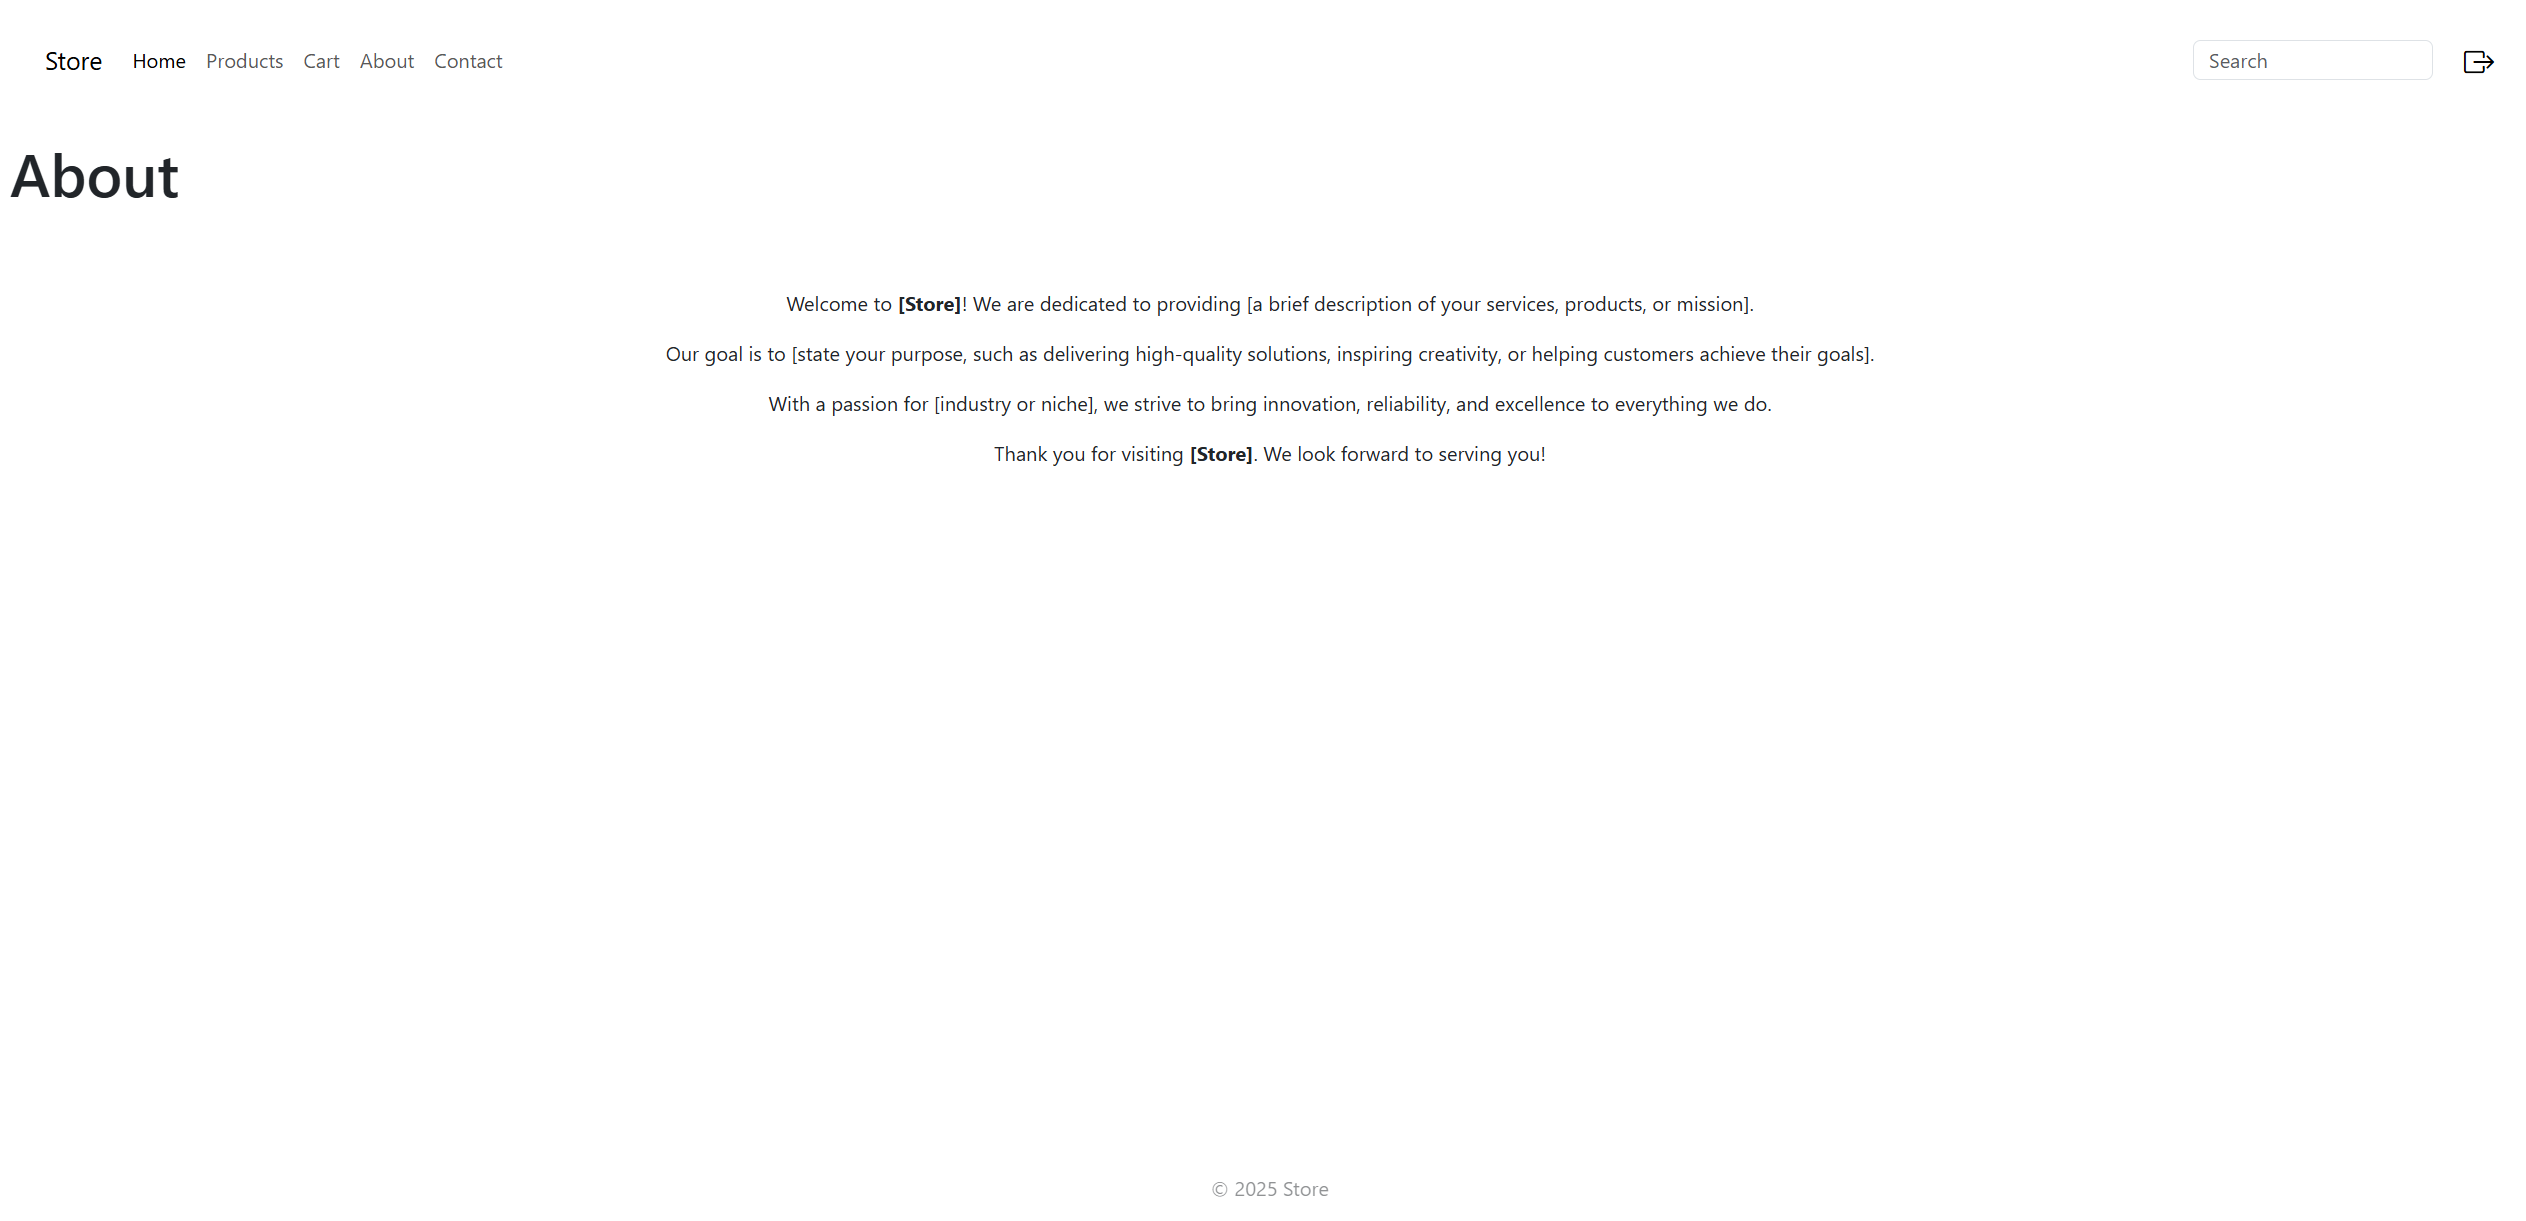
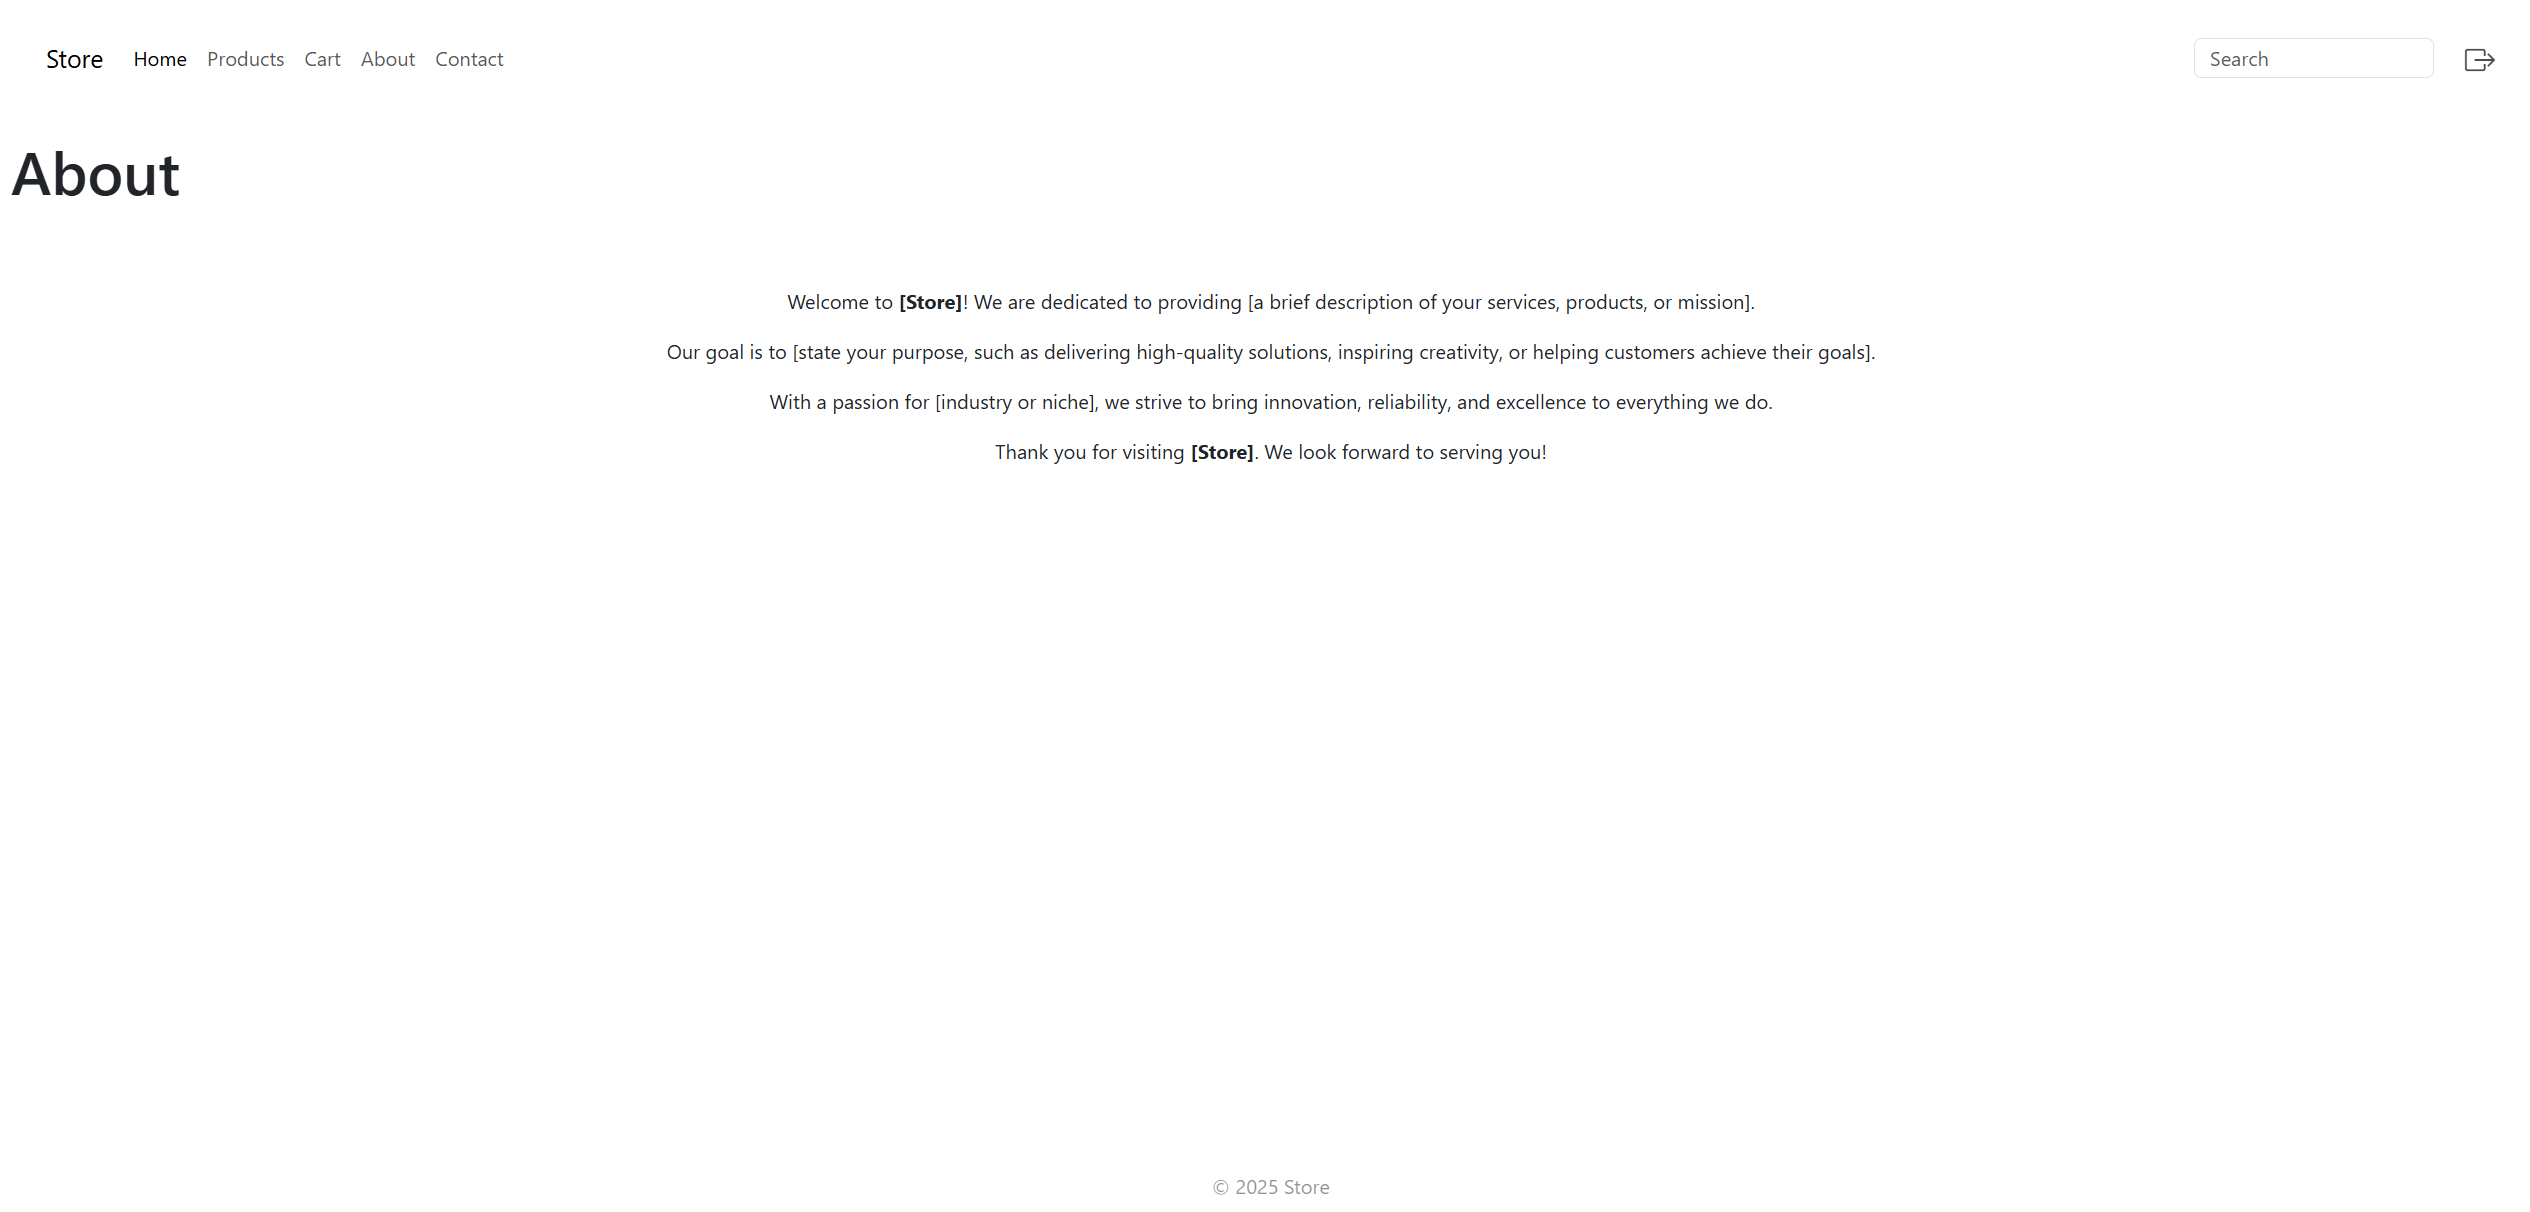
refactor cart and product templates

diff --git a/templates/cart.html b/templates/cart.html
@@ -4,52 +4,56 @@
 
 {% block content %}
 <link rel="stylesheet" href="{% static 'css/cart.css' %}">
-<h1>Cart</h1>
+
+<h1 class="cart-title">Cart</h1>
 
 {% if cart.cart_items.all %}
-<div id="table-container">
-    <table>
-        <thead>
-            <tr>
-                <th>Product</th>
-                <th>Quantity</th>
-                <th>Price</th>
-                <th>Total</th>
-            </tr>
-        </thead>
-        <tbody>
-            {% for item in cart.cart_items.all %}
-            <tr>
-                <td><a href="{% url 'product-detail' item.product.id %}">{{ item.product.name }}</a></td>
-                <td>{{ item.quantity }}</td>
-                <td>${{ item.product.price }}</td>
-                <td>${{ item.get_total_items_price }}</td>
-                <td>
+<div class="cart-wrapper">
 
-                    <form method="post" action="{% url 'remove-from-cart' item.id %}">
-                        {% csrf_token %}
-                        <button type="submit" id="delete-button" class="btn btn-danger">Delete Item</button>
-                    </form>
-                </td>
-            </tr>
-            {% endfor %}
-        </tbody>
-    </table>
+    <div class="cart-grid-header">
+        <div>Product</div>
+        <div>Quantity</div>
+        <div>Price</div>
+        <div>Total</div>
+        <div>Action</div>
+    </div>
+
+    <div class="cart-grid-items">
+        {% for item in cart.cart_items.all %}
+        <div class="cart-grid-row">
+            <div>
+                <a href="{% url 'product-detail' item.product.id %}" class="product-cell">
+                    {{ item.product.name }}
+                </a>
+            </div>
+            <div class="quantity-cell">{{ item.quantity }}</div>
+            <div class="price-cell">${{ item.product.price }}</div>
+            <div class="total-cell">${{ item.get_total_items_price }}</div>
+            <div class="action-cell">
+                <form method="post" action="{% url 'remove-from-cart' item.id %}">
+                    {% csrf_token %}
+                    <button type="submit" class="btn remove-btn">Remove</button>
+                </form>
+            </div>
+        </div>
+        {% endfor %}
+    </div>
+
+    <div class="cart-summary">
+        <div class="cart-total">
+            <strong>Total:</strong> ${{ cart.get_total_cart_price }}
+        </div>
+        <div class="cart-checkout">
+            <a href="{% url 'checkout' %}">
+                <button type="submit" class="btn-checkout">Checkout</button>
+            </a>
+        </div>
+    </div>
 
 </div>
 
-<div id="total-container">
-    <p><strong>Total:</strong> ${{ cart.get_total_cart_price }}</p>
-
-</div>
-<div id="buy-button-container">
-    <form action="{% url 'checkout'%}" method="get">
-        {% csrf_token %}
-        <button id="buy-button" class="btn btn-warning" type="submit">Buy Now</button>
-    </form>
-</div>
 {% else %}
-<p>Cart is empty.</p>
+<p class="empty-cart-msg" id="empty">Cart is empty.</p>
 {% endif %}
 
 {% endblock %}

diff --git a/static/css/cart.css b/static/css/cart.css
@@ -1,49 +1,92 @@
-table {
-    font-size: clamp(0.8rem, 2.5vw, 1.2rem);
+.cart-wrapper {
+    max-width: 56.25rem;
+    margin: 0 auto;
+    padding: 0 1rem;
+    box-sizing: border-box;
 }
 
-th,
-td {
+.cart-grid-header,
+.cart-grid-row {
+    display: grid;
+    grid-template-columns: repeat(auto-fit, minmax(6rem, 4fr));
+    align-items: center;
+    padding: 0.5rem 0;
     font-size: clamp(0.9rem, 2.5vw, 1.2rem);
-    padding: 0.5rem;
 }
 
-p {
-    font-size: 1.2rem;
-    margin: 1.2rem;
-}
-
-#table-container {
-    display: flex;
-    justify-content: center;
-    align-items: center;
+.cart-grid-header {
     text-align: center;
 }
 
-#total-container {
-    display: flex;
-    justify-content: center;
-    align-self: center;
-}
-
-#buy-button-container {
-    display: flex;
-    justify-content: center;
-    align-items: center;
-    text-align: center;
-}
-
-a {
-    color: black;
-    text-decoration: none;
-}
-
-
-#delete-button {
-    font-size: clamp(0.8rem, 2.5vw, 0.85rem);
+.cart-grid-header {
+    font-weight: bold;
+    border-bottom: 0.0625rem solid #ddd;
     text-wrap: nowrap;
 }
 
-#buy-button {
-    font-size: clamp(1.0rem, 2.5vw, 1.05rem);
+.cart-grid-items {
+    margin-top: 1rem;
+    text-wrap: nowrap;
+}
+
+.product-cell {
+    color: #000;
+    text-decoration: none;
+}
+
+.quantity-cell,
+.price-cell,
+.total-cell,
+.action-cell,
+.product-cell {
+    display: flex;
+    align-items: center;
+    justify-content: center;
+}
+
+.remove-btn {
+    border: none;
+    padding: 0.3rem 0.7rem;
+    border-radius: 0.25rem;
+    cursor: pointer;
+    transition: transform 0.3s ease;
+}
+
+.remove-btn:hover {
+    transform: translateY(-0.1rem);
+}
+
+.cart-summary {
+    display: flex;
+    justify-content: flex-end;
+    align-items: center;
+    margin-top: 2rem;
+    gap: 1rem;
+    padding: 1rem;
+    border-radius: 0.25rem;
+}
+
+.cart-total {
+    font-size: 1.2rem;
+}
+
+.btn-checkout {
+
+    padding: 0.525rem;
+    background-color: #007bff;
+    color: #fff;
+    font-size: 1rem;
+    border: none;
+    border-radius: 0.6rem;
+    cursor: pointer;
+    transition: background-color 0.2s ease;
+}
+
+.btn-checkout:hover {
+    background-color: #0056b3;
+}
+
+#empty {
+    margin-left: 2rem;
+    font-size: 1.5rem;
 }

diff --git a/templates/base.html b/templates/base.html
@@ -68,12 +68,13 @@
                     {% if user.is_authenticated %}
                     <form action="{% url 'logout' %}" method="POST" class="d-none d-lg-inline-block mb-0 ms-3">
                         {% csrf_token %}
-                        <button type="submit" class="btn btn-link p-0" style="font-size: 1.65rem;">
+                        <button type="submit" class="btn btn-link p-0" style="font-size: 1.65rem;" id="arrow">
                             <i class="bi bi-box-arrow-right"></i>
                         </button>
                     </form>
                     {% else %}
-                    <a href="{% url 'login' %}" class="d-none d-lg-inline-block ms-3" style="font-size: 1.65rem;">
+                    <a href="{% url 'login' %}" class="d-none d-lg-inline-block ms-3" style="font-size: 1.65rem;"
+                        id="person">
                         <i class="bi bi-person"></i>
                     </a>
                     {% endif %}

diff --git a/static/css/product-detail.css b/static/css/product-detail.css
@@ -16,15 +16,36 @@
     height: fit-content;
     width: 8rem;
     margin: 0.5rem;
+    transition: transform 0.3s ease, box-shadow 0.3s ease;
+}
+
+#quantity:hover {
+    transform: translateY(-0.1rem);
+    box-shadow: 0 0.5rem 1rem rgba(0, 0, 0, 0.12);
 }
 
 #cart-button,
 #buy-button {
     width: 8rem;
     height: fit-content;
+    padding: 0.525rem;
+    background-color: #007bff;
+    color: white;
+    border: none;
+    border-radius: 0.6rem;
+    cursor: pointer;
 
+}
+
+#cart-button:hover,
+#buy-button:hover {
+    background-color: #0056b3;
 }
 
 #cart-button {
     margin: 0.5rem;
+}
+
+p {
+    font-size: 1.1rem;
 }

diff --git a/static/css/product-grid.css b/static/css/product-grid.css
@@ -1,7 +1,7 @@
 .product-grid {
     display: grid;
     grid-template-columns: repeat(auto-fill, minmax(clamp(12rem, 12vw, 16rem), 1fr));
-    gap: 1.5rem;
+    gap: 3.8rem;
     margin-top: 2.5rem;
     padding: 0 1rem;
 }
@@ -52,4 +52,18 @@
 #p-search {
     font-size: clamp(1rem, 1.1vw, 1.3rem);
     margin-left: 1.5rem;
+}
+
+#cart-button {
+    width: 6.5rem;
+    padding: 0.625rem;
+    background-color: #007bff;
+    color: white;
+    border: none;
+    border-radius: 0.6rem;
+    cursor: pointer;
+}
+
+#cart-button:hover {
+    background-color: #0056b3;
 }

diff --git a/templates/product-detail.html b/templates/product-detail.html
@@ -23,12 +23,12 @@
             </select>
         </div>
         <div>
-            <button id="cart-button" type="submit" class="btn btn-secondary">Add to Cart</button>
+            <button id="cart-button" type="submit">Add to Cart</button>
         </div>
     </form>
     <form action="{% url 'checkout'%}" method="get">
         {% csrf_token %}
-        <button id="buy-button" class="btn btn-warning" type="submit">Buy Now</button>
+        <button id="buy-button" type="submit">Buy Now</button>
     </form>
 </div>
 {% endblock %}

diff --git a/templates/product-grid.html b/templates/product-grid.html
@@ -14,8 +14,6 @@
 {% endif %}
 {% endif %}
 
-
-
 <div class="product-grid">
     {% for product in products %}
     <div class="product-card">
@@ -30,7 +28,7 @@
             {% csrf_token %}
             <input type="hidden" name="quantity" value="1">
 
-            <button type="submit" class="btn btn-secondary">Add to Cart</button>
+            <button type="submit" id="cart-button">Add to Cart</button>
         </form>
     </div>
     {% endfor %}

diff --git a/static/css/styles.css b/static/css/styles.css
@@ -40,3 +40,13 @@ footer {
     font-size: 1rem;
     text-align: center;
 }
+
+#arrow,
+#person {
+    opacity: 0.7;
+}
+
+#arrow:hover,
+#person:hover {
+    opacity: 1.0;
+}

diff --git a/store/management/commands/create_products.py b/store/management/commands/create_products.py
@@ -17,7 +17,7 @@ class Command(BaseCommand):
         for i in range(count):
             Product.objects.create(
                 name=f"Product {i+1}",
-                description=f"Description for product {i+1}",
+                description=f"Description for Product {i+1}",
                 price=round(random.uniform(10.0, 500.0), 2),
                 stock=random.randint(0, 100),
                 categories=random.sample(['Electronics', 'Clothing', 'Books', 'Home', 'Toys'], k=random.randint(1, 3)),

diff --git a/store/settings.py b/store/settings.py
@@ -26,7 +26,7 @@ SECRET_KEY = 'django-insecure-l8nd9($ucx$9#&!)3y!!+t051&9mc-8c4gd4ny7_o&amynbt0)
 # SECURITY WARNING: don't run with debug turned on in production!
 DEBUG = True
 
-ALLOWED_HOSTS = []
+ALLOWED_HOSTS = ALLOWED_HOSTS = ['10.0.2.2', '127.0.0.1']
 
 
 # Application definition
